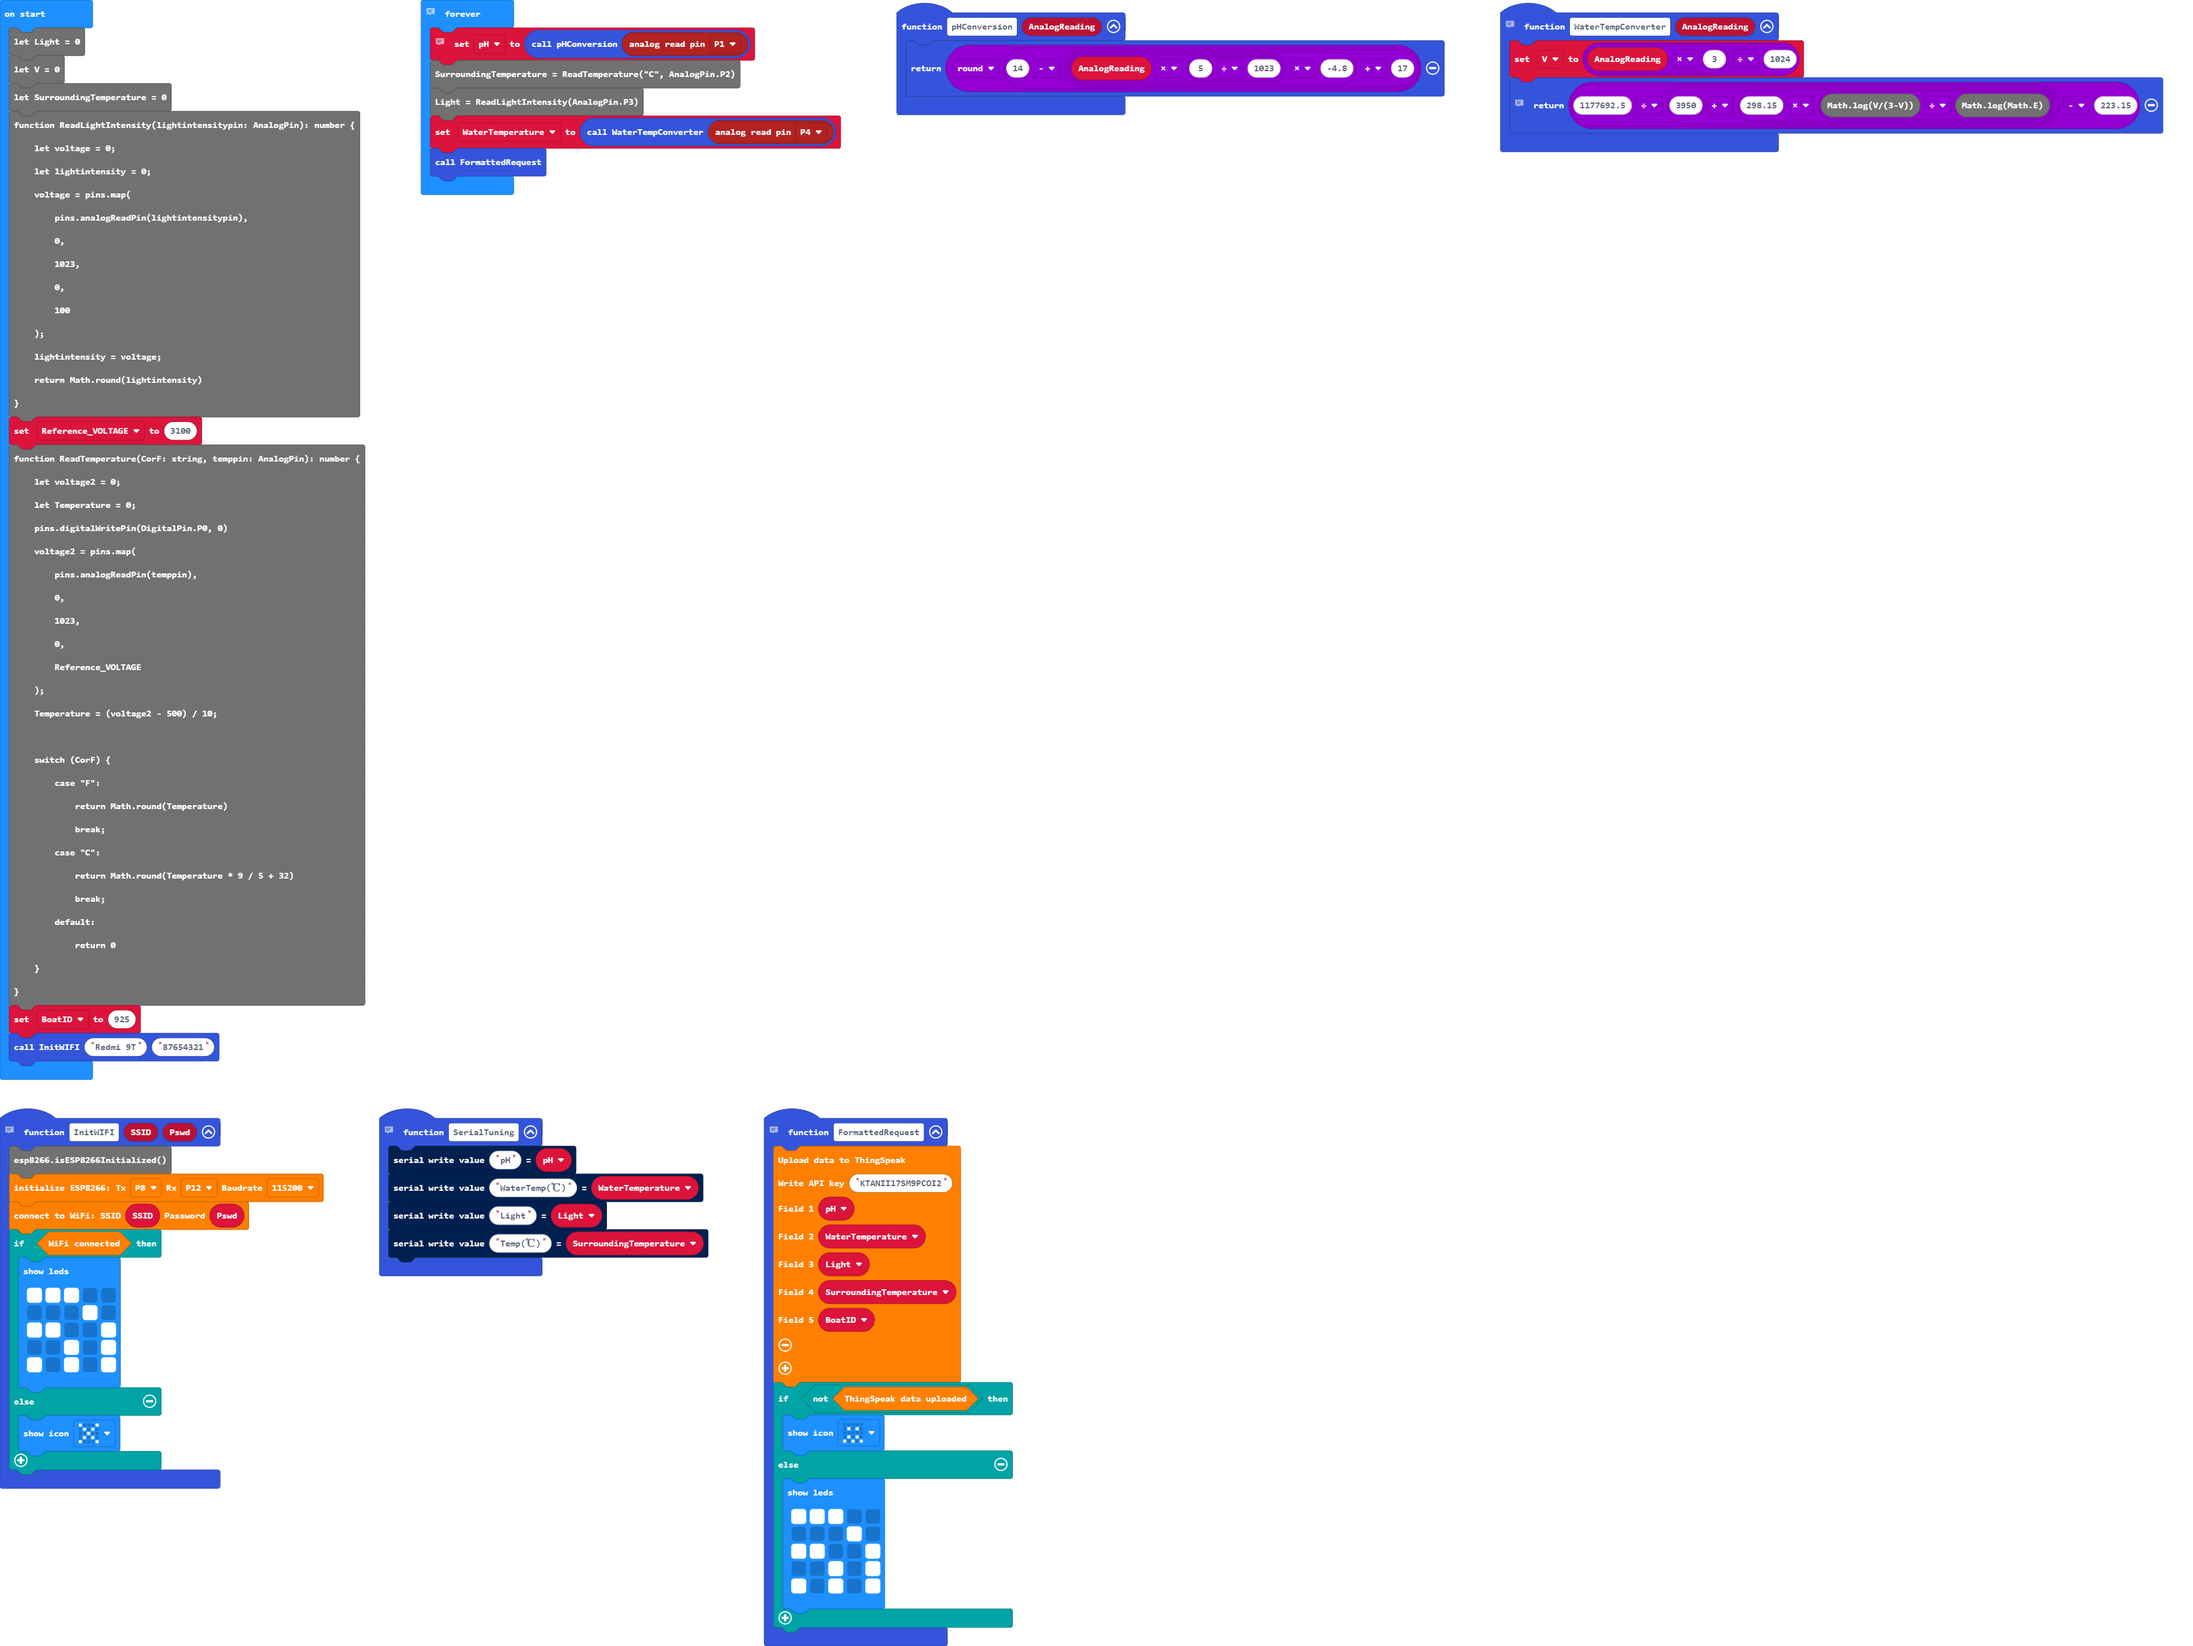
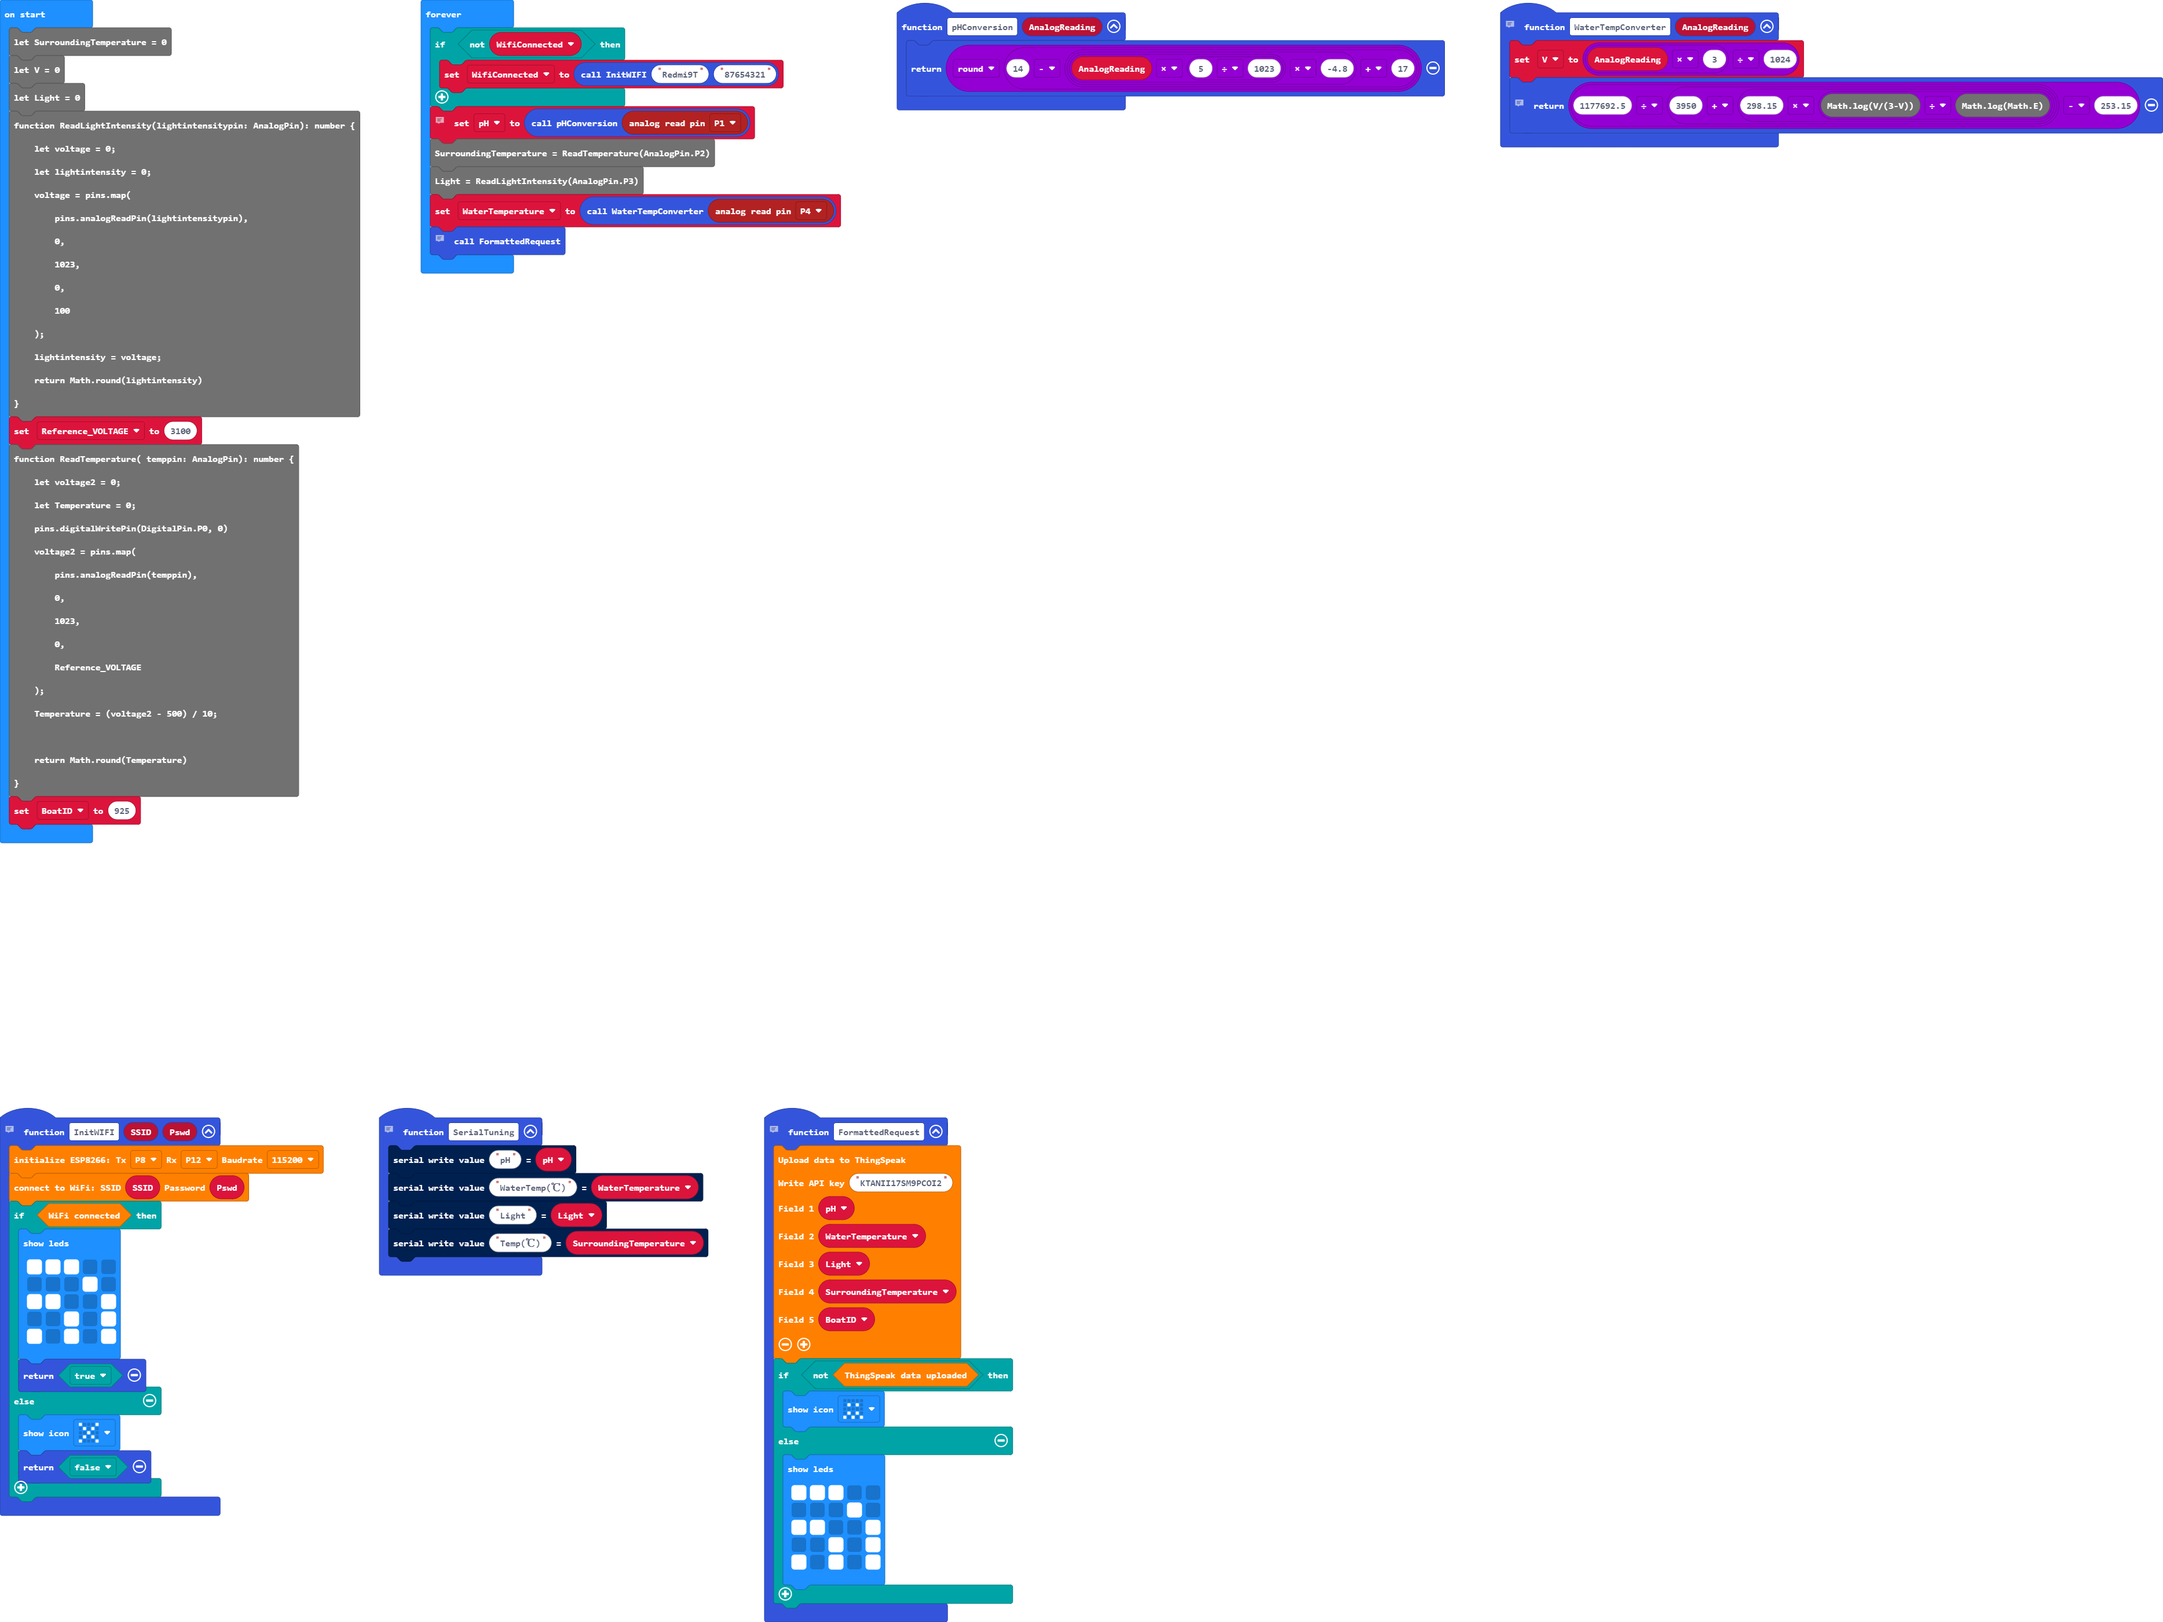
Update main.blocks, main.ts

Changed region(s): [[0.0, 0.2173, 0.4659, 1.0], [0.1863, 0.0, 1.0, 0.1863], [0.0, 0.0, 0.1553, 0.1552]]

diff --git a/main.ts b/main.ts
@@ -19,7 +19,7 @@ function InitWIFI (SSID: string, Pswd: string) {
 function pHConversion (AnalogReading: number) {
     return Math.round(14 - (AnalogReading * (5 / 1023) * -4.8 + 17))
 }
-// TODO: Do Me & Wesley's Efforts of Tuning That Fucking Sensor Glory
+// TODO: Do Me & Wesley's Efforts of Tuning That Sensor Glory
 function WaterTempConverter (AnalogReading: number) {
     V = AnalogReading * 3 / 1024
     // Temperature= 1177692.5 / (3950 + 298.15 * ln(V/(3.3-V)) - 273.5.
@@ -32,7 +32,7 @@ function SerialTuning () {
     serial.writeValue("Light", Light)
     serial.writeValue("Temp(℃)", SurroundingTemperature)
 }
-// TODO: Send All Shit
+// TODO: Send everything
 function FormattedRequest () {
     esp8266.uploadThingspeak(
     "KTANII17SM9PCOI2",
@@ -54,12 +54,13 @@ function FormattedRequest () {
             `)
     }
 }
+let WifiConnected = false
 let WaterTemperature = 0
 let pH = 0
 let BoatID = 0
-let Light = 0
-let V = 0
 let SurroundingTemperature = 0
+let V = 0
+let Light = 0
 function ReadLightIntensity(lightintensitypin: AnalogPin): number {
     let voltage = 0;
     let lightintensity = 0;
@@ -90,17 +91,16 @@ function ReadTemperature( temppin: AnalogPin): number {
     return Math.round(Temperature)
 }
 BoatID = 925
-let WifiConnected=false
 basic.forever(function () {
-    if (!WifiConnected) {
+    if (!(WifiConnected)) {
         WifiConnected = InitWIFI("Redmi9T", "87654321")
     }
     // pH conversion Table:
     // https://raw.githubusercontent.com/DFRobot/DFRobotMediaWikiImage/master/Image/Ph-mv.jpg
     pH = pHConversion(pins.analogReadPin(AnalogPin.P1))
     SurroundingTemperature = ReadTemperature(AnalogPin.P2)
-    Light = ReadLightIntensity(AnalogPin.P3)
-    WaterTemperature = WaterTempConverter(pins.analogReadPin(AnalogPin.P4))
+Light = ReadLightIntensity(AnalogPin.P3)
+WaterTemperature = WaterTempConverter(pins.analogReadPin(AnalogPin.P4))
     // SerialTuning()
     FormattedRequest()
 })
